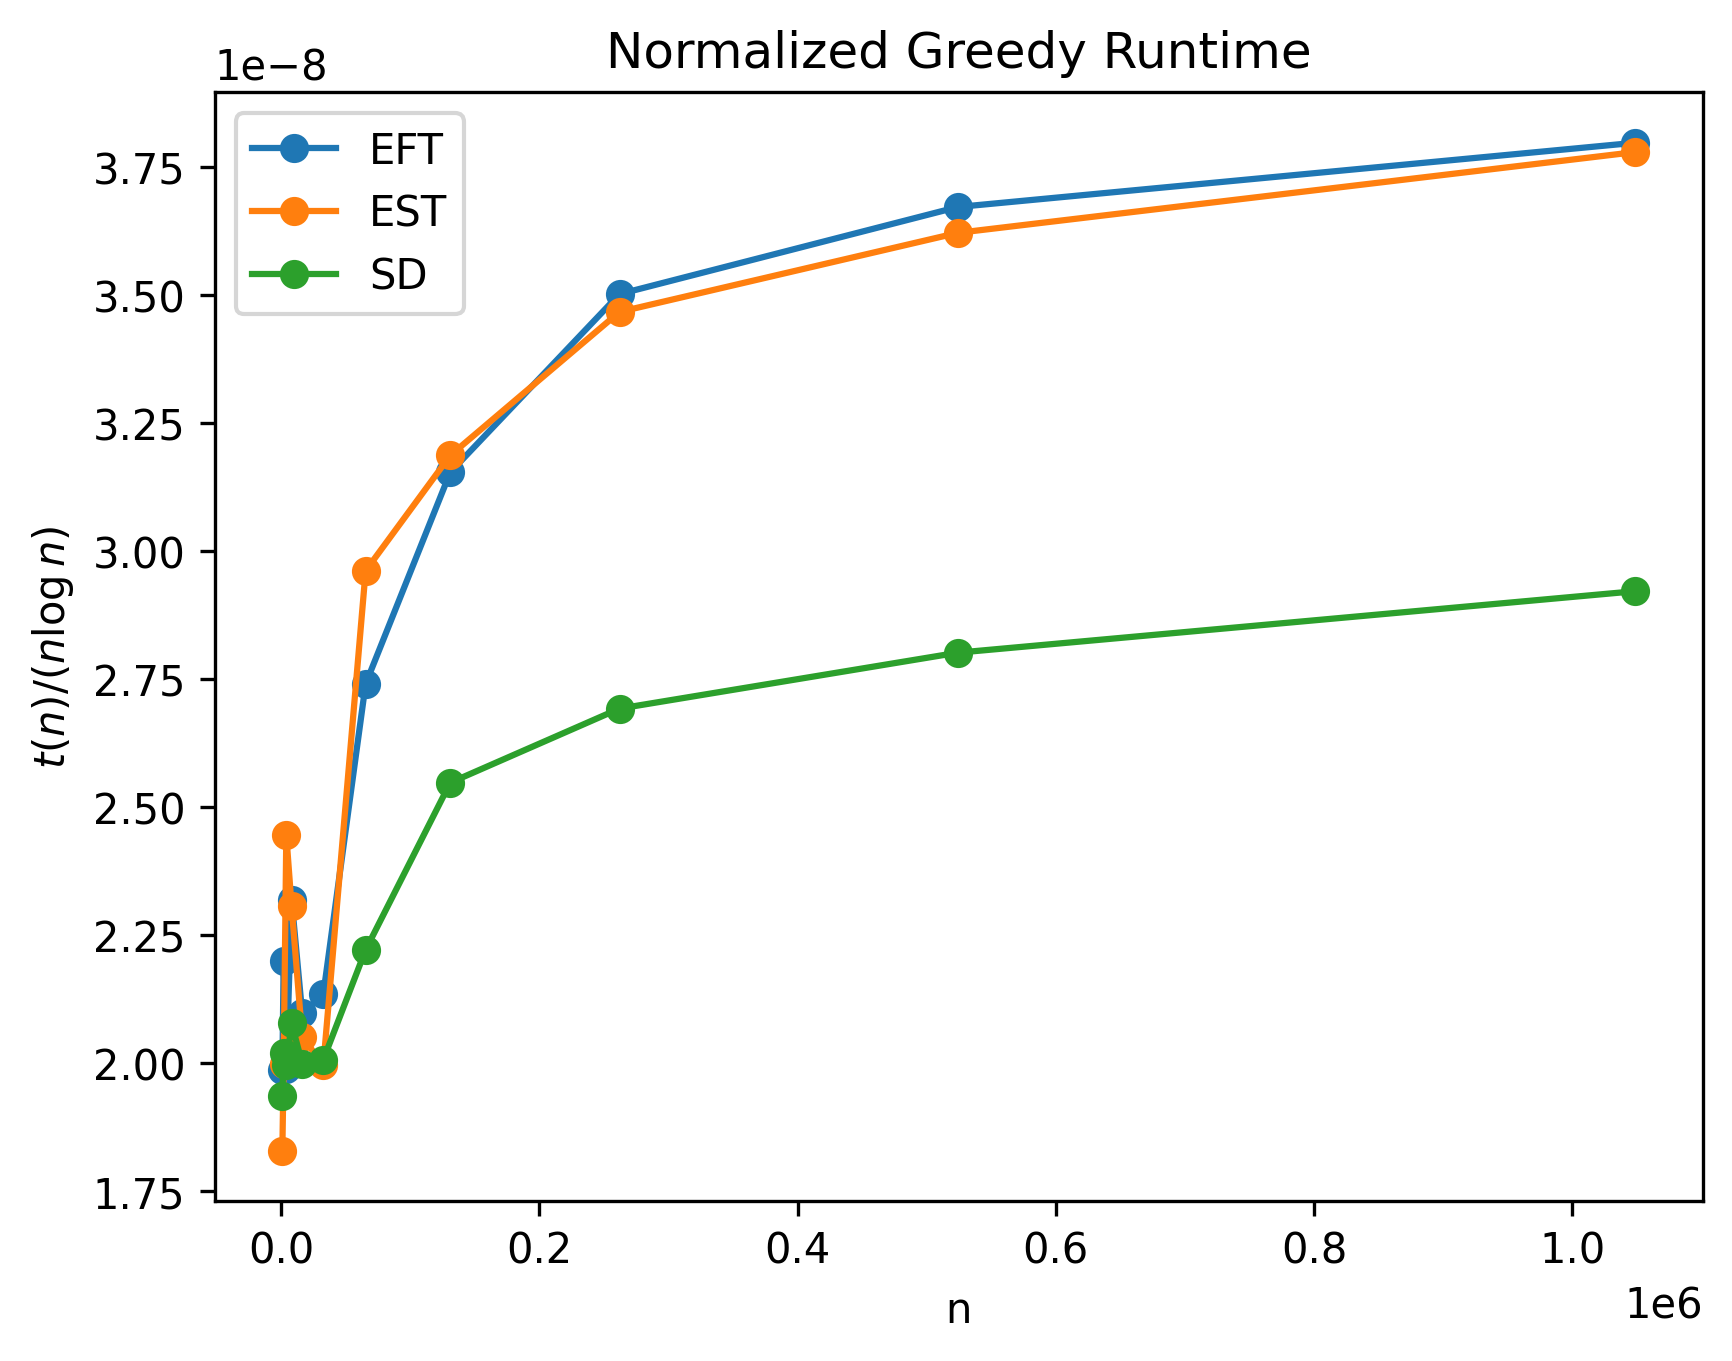
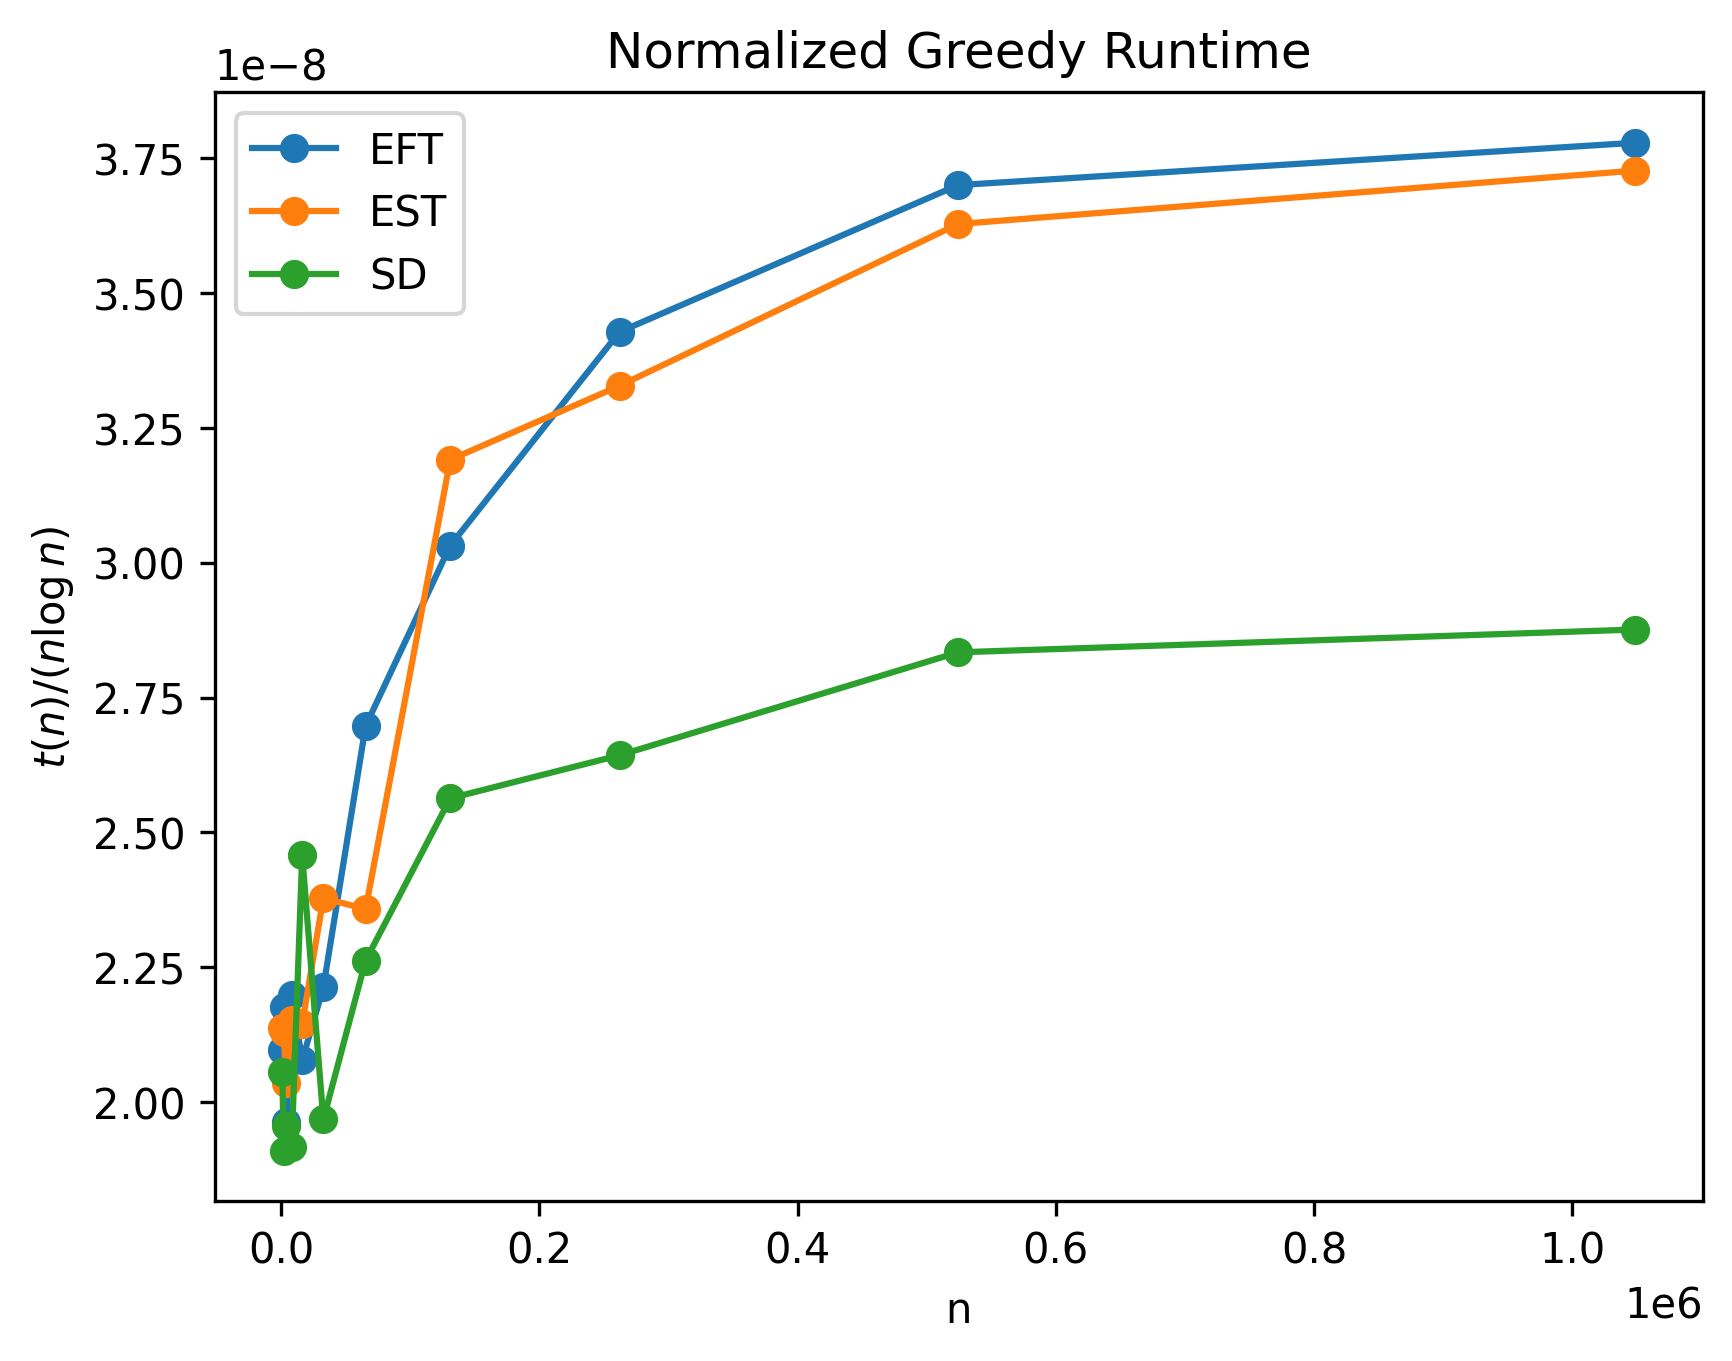
feat: Add normalized runtime plot for exhaustive algorithm

diff --git a/plots.py b/plots.py
@@ -61,3 +61,22 @@ def plot_exhaustive(results):
 
     plt.savefig(f"{IMAGE_DIR}/exhaustive_runtime.png", dpi=300, bbox_inches="tight")
     plt.close()
+
+def plot_exhaustive_normalized(results):
+    plt.figure()
+
+    xs = []
+    ys = []
+
+    for n, t, _ in results:
+        xs.append(n)
+        ys.append(t / (n * (2 ** n)))
+
+    plt.plot(xs, ys, marker="o")
+    plt.xlabel("n")
+    plt.ylabel(r"$t(n) / (n 2^n)$")
+    plt.title("Normalized Exhaustive Runtime")
+
+    plt.savefig(f"{IMAGE_DIR}/exhaustive_normalized.png",
+                dpi=300, bbox_inches="tight")
+    plt.close()

diff --git a/benchmark.py b/benchmark.py
@@ -8,7 +8,8 @@ from exhaustive import exhaustive_optimal
 from plots import (
     plot_greedy_runtime,
     plot_greedy_normalized,
-    plot_exhaustive
+    plot_exhaustive,
+    plot_exhaustive_normalized
 )
 
 def time_algorithm(func, intervals, trials=10):
@@ -101,3 +102,4 @@ if __name__ == "__main__":
 
     # PLOT FOR EXHAUSTIVE
     plot_exhaustive(exhaustive_results)
+    plot_exhaustive_normalized(exhaustive_results)
